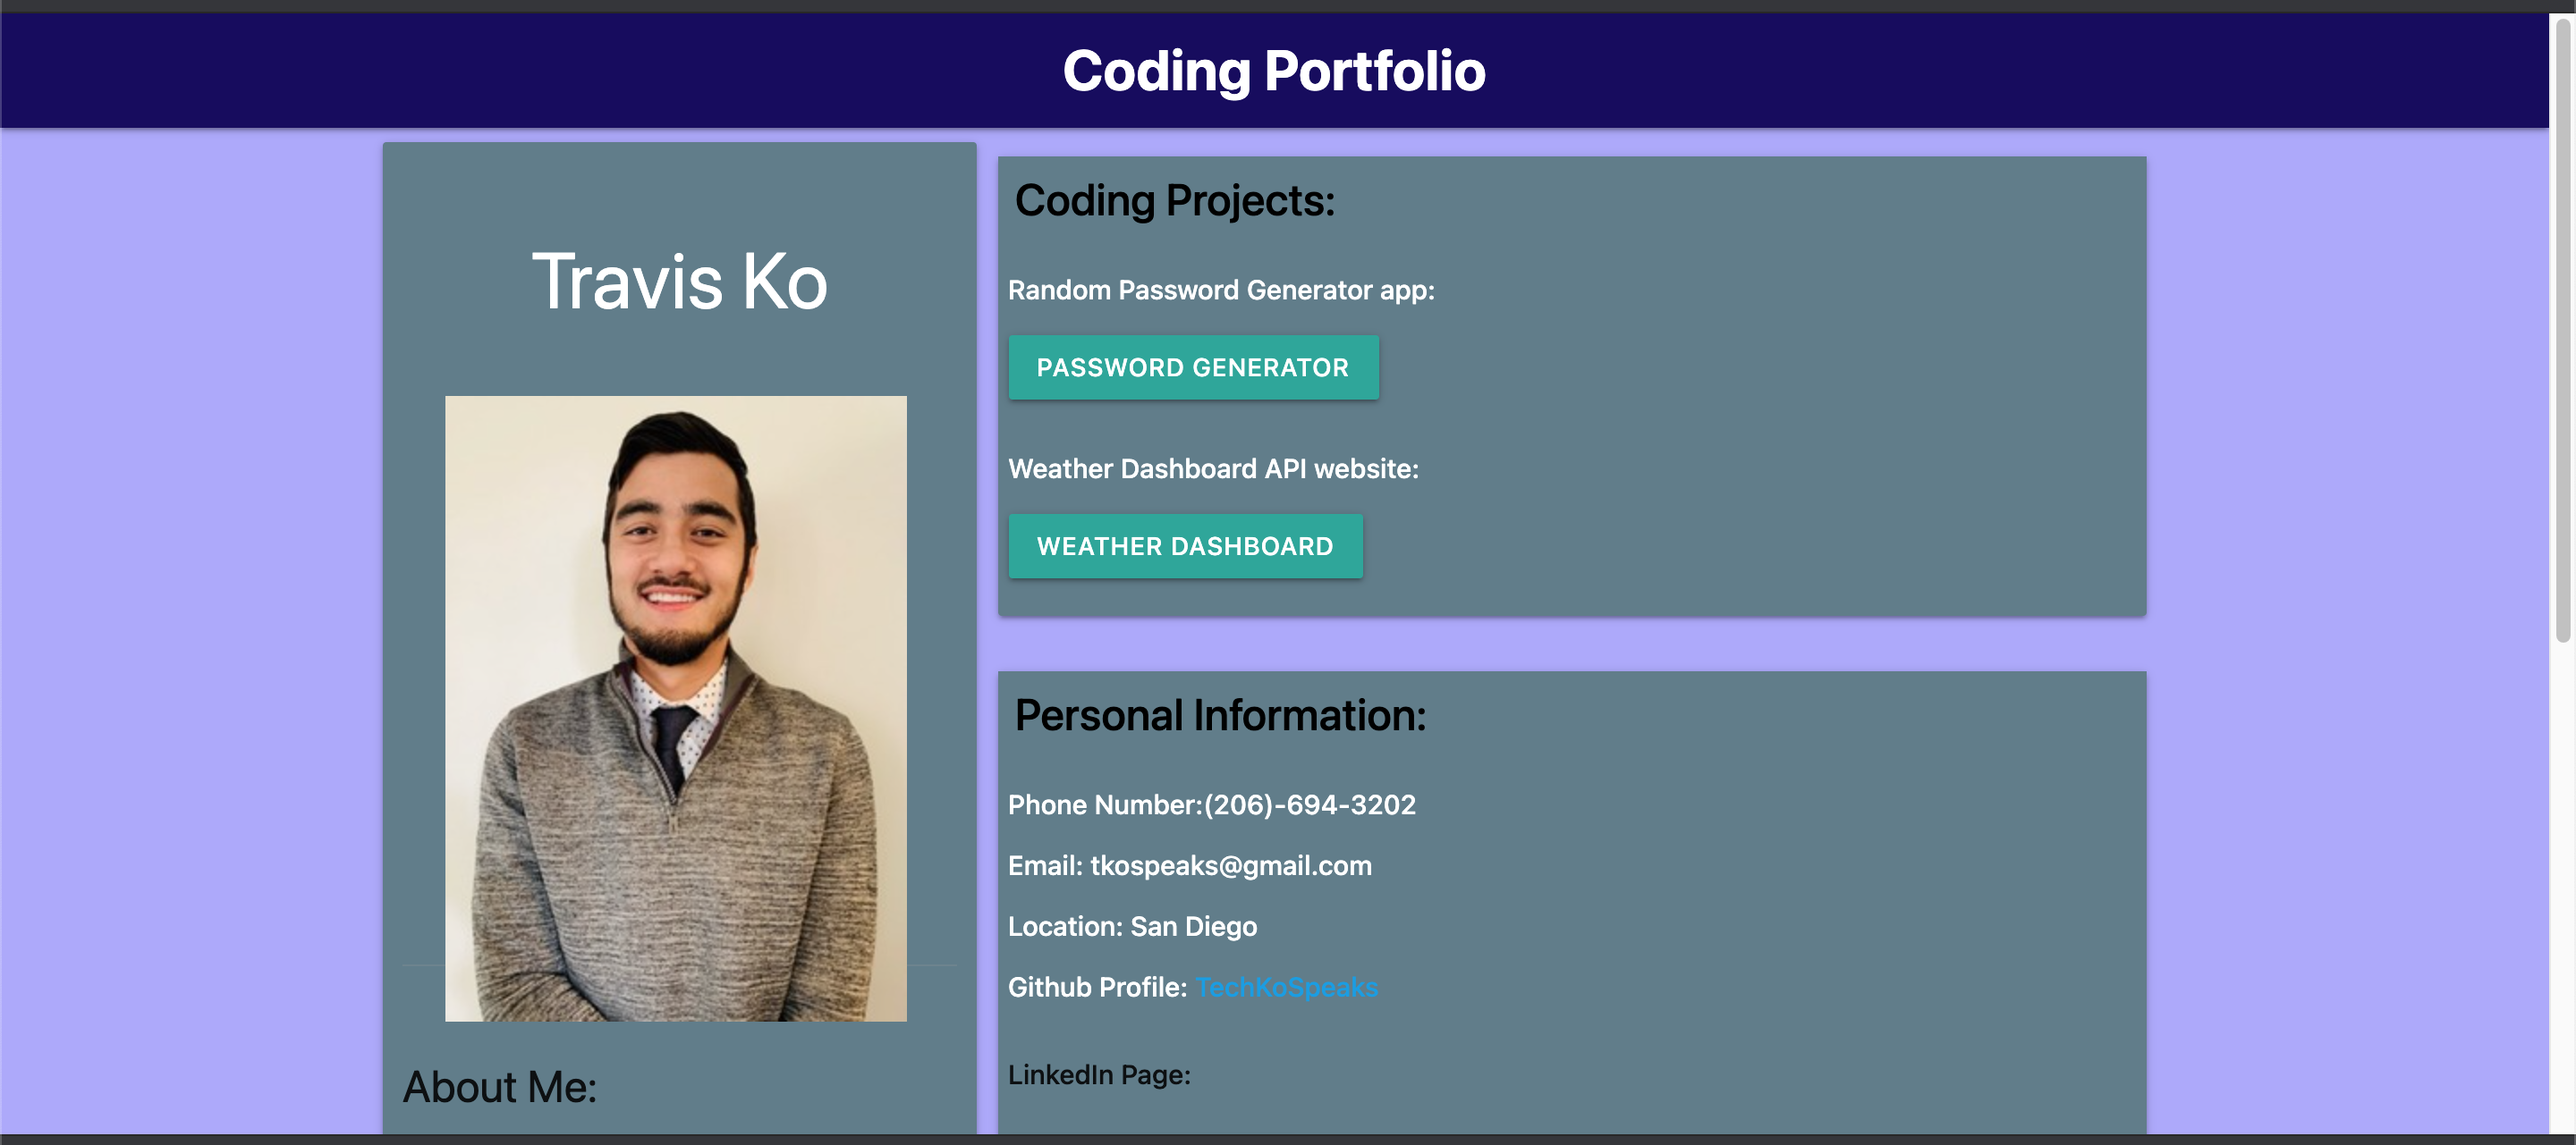
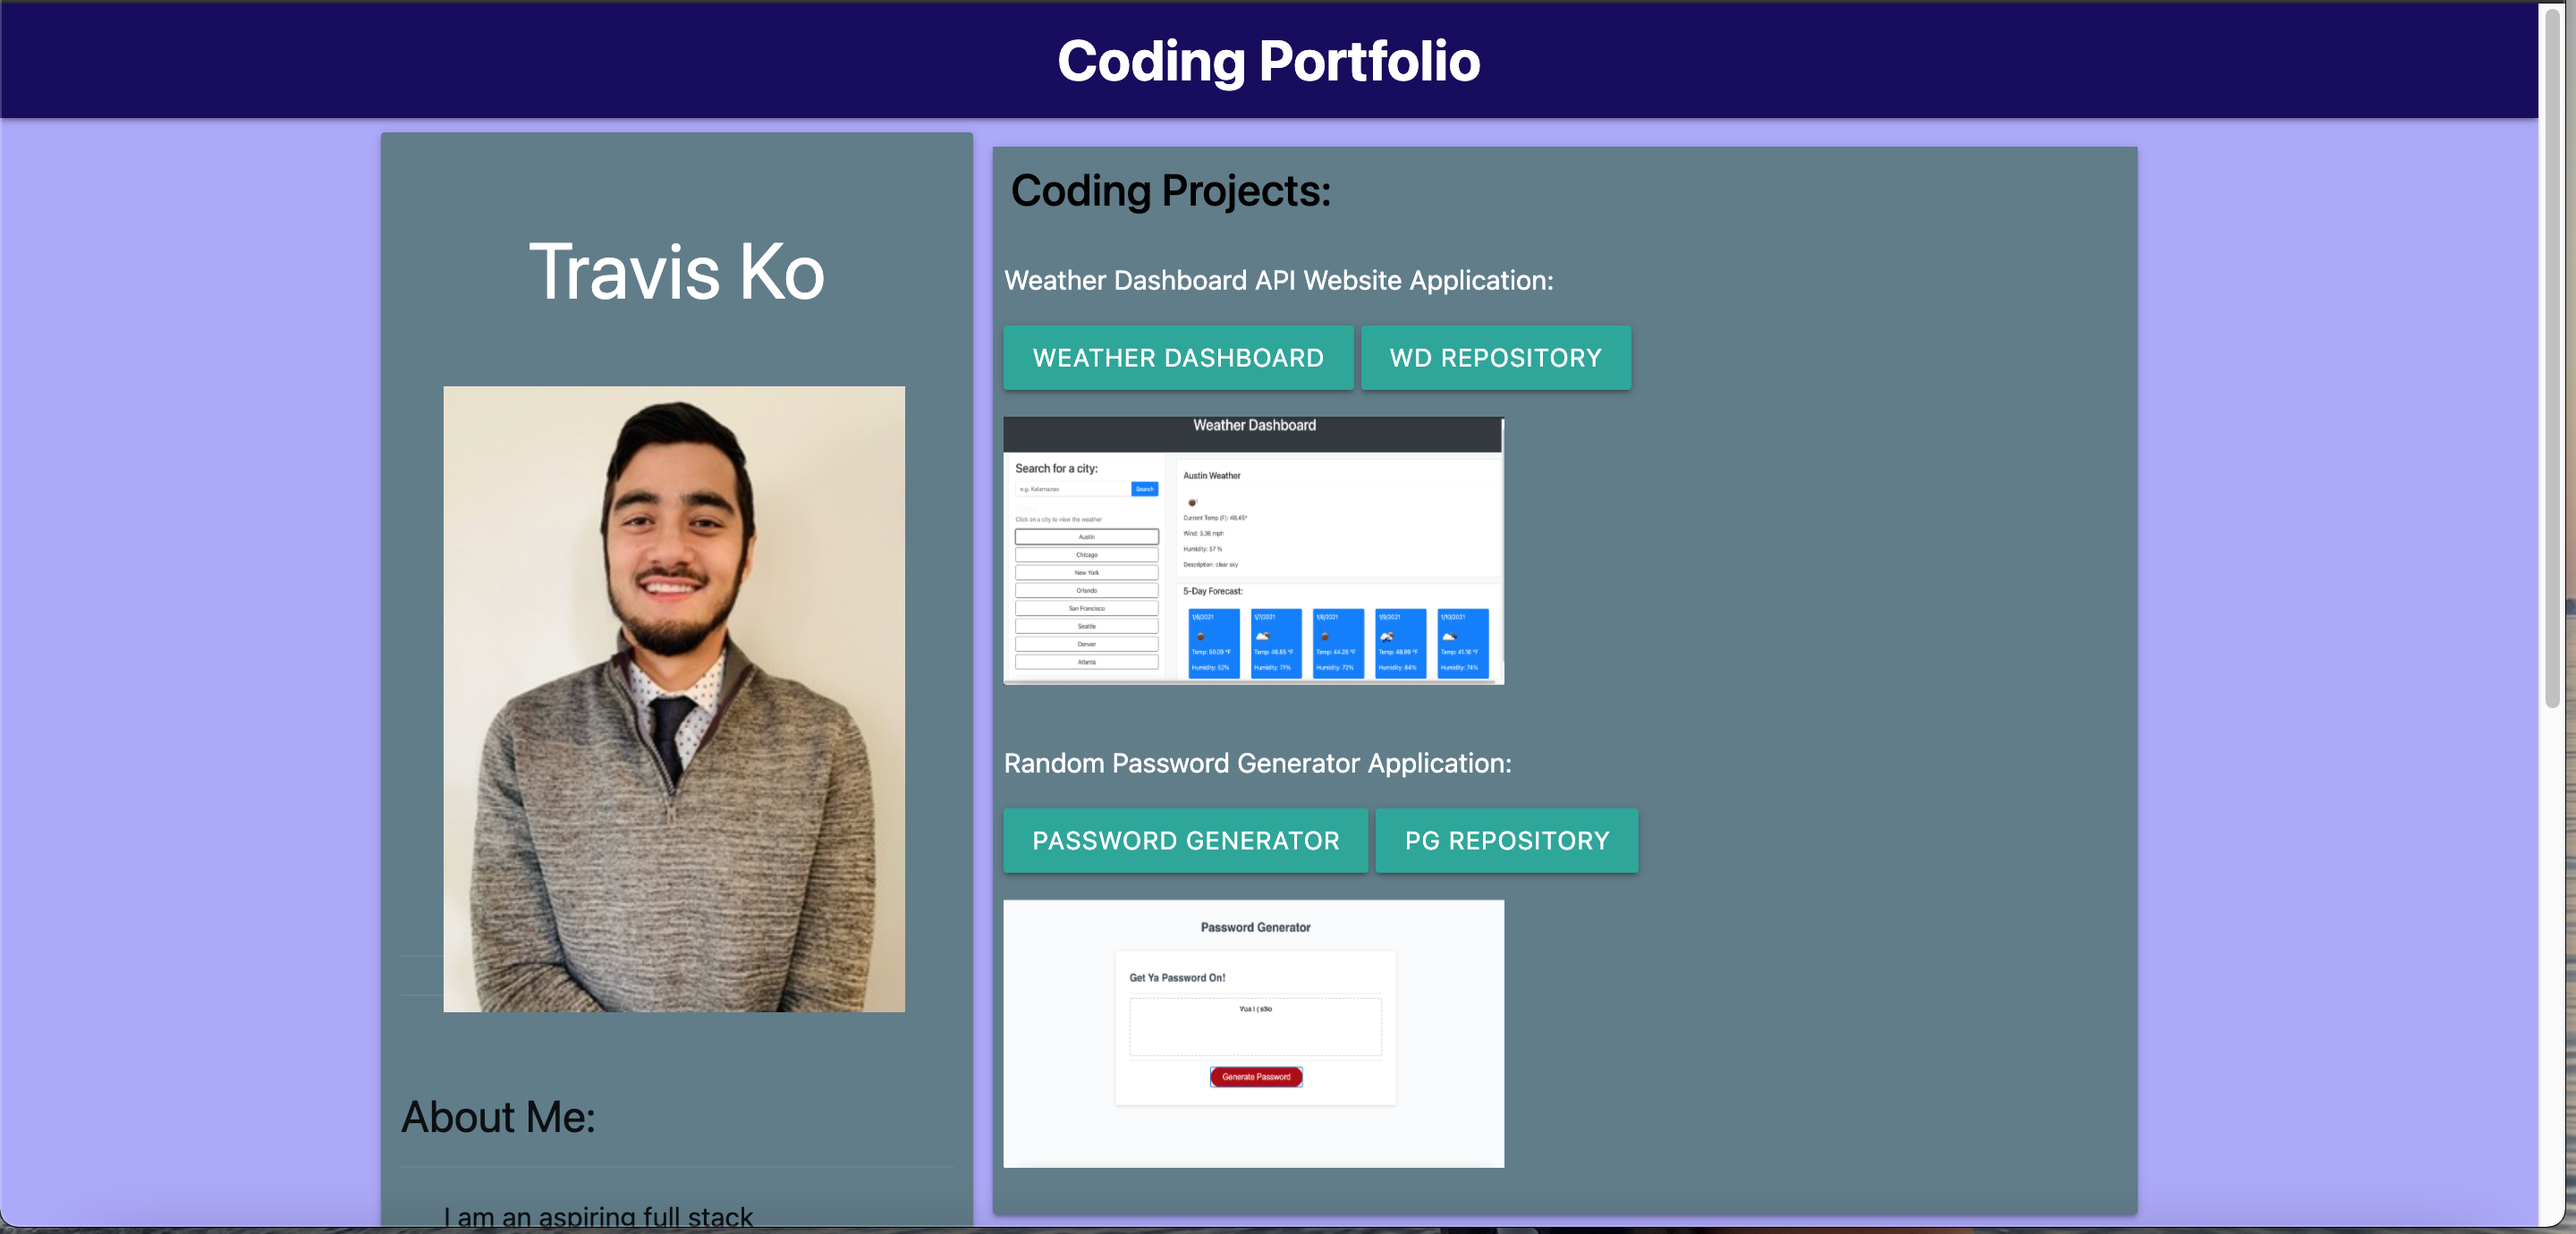
Modified screenshots for readme, to include updated screenshots and mobile friendly look.

Changed region(s): [[0.0, 0.0, 1.0, 1.0], [0.1875, 0.1874, 0.3438, 0.281]]

diff --git a/README.md b/README.md
@@ -16,6 +16,8 @@ Link to deployed app: https://techkospeaks.github.io/polished-portfolio/
 
 ![alt text](screenshots/portfolio-screenone.png "Portfolio Screenshot 2")
 
+![alt text](screenshots/portfolio-mobile.png "Portfolio Screenshot 2")
+
 
 
 ## Links
